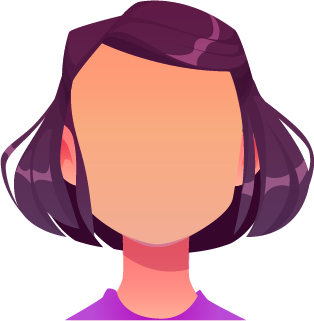
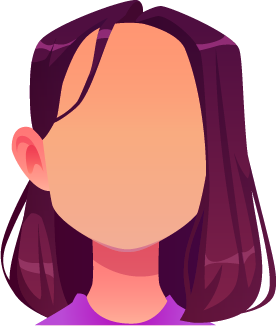
img-loading

diff --git a/src/component/BusinessCard/CustomUpdate.js b/src/component/BusinessCard/CustomUpdate.js
@@ -10,6 +10,8 @@ function CustomUpdate() {
   let history = useNavigate();
   let param = useParams();
 
+  let path = './Business-img/'; // 이미지 경로
+
   //데이터를 모두 읽을 때까지 rendering을 조절하는 변수
   const [loading, setLoading] = useState(false);
 
@@ -21,7 +23,8 @@ function CustomUpdate() {
   const[email, setEmail] = useState('');
   const[url, setUrl] = useState('');
   
-  
+  const[hair, setHair] = useState([]);
+
   //시퀀스,id로 불러올 수 있는 함수 넣기
   function busiDetail(id) {
     axios.get("http://localhost:3000/businessDetail", {params:{"id": id}})
@@ -43,6 +46,18 @@ function CustomUpdate() {
   }
 
 
+  function Hair() {
+    axios.get("http://localhost:3000/hair", {params:{}})
+      .then(function(resp){    
+        console.log(resp.data.list);
+        setHair(resp.data.list);
+      })
+      .catch(function(err){
+        alert("정보를 불러오지 못했습니다.");
+      })
+  }
+
+
 
   const handleSubmit = async(e) => {
     axios.post("http://localhost:3000/businessUpdate", null,
@@ -61,10 +76,18 @@ function CustomUpdate() {
             alert(err);
          })
   }
+
+
+
+
+  function changeHair(e) {
+    setThumbnail(e);
+  }
   
 
   useEffect(function(){
     busiDetail(param.id);
+    Hair();
   },[param.id]);
 
 
@@ -76,15 +99,29 @@ function CustomUpdate() {
 
   return(
     <div className="middle">
-      <div style={{position: "relative", backgroundColor:"#9CA8F0", marginTop:"150px", height:"600px", width:"900px"}} /*명함틀*/ />
 
-      <div style={{position: "relative", marginLeft:"-780px", marginTop:"0px", fontSize:"20px"}}>    
-        <div className="circle" style={{position: "relative", left:"-70px", height:"300px", width:"300px"}}/>
-        <img src={thumbnail} defaultValue={thumbnail} alt="" style={{position: "relative", left:"-765px", marginTop:"-500px", width:"220px", marginBottom:"60px"}}
-              onChange={(e)=>setThumbnail(e.target.value)}/>
+      <div style={{backgroundColor:"#9CA8F0", marginTop:"150px", height:"600px", width:"900px", fontSize:"20px"}}>
 
-        <div style={{ float:"left", marginLeft:"300px", marginTop:"-300px"}}>
-          <div style={{backgroundColor:"white", textAlign:"center", padding:"10px"}}>
+        <div className="circle" style={{ position:"relative", left:"30px", marginTop:"50px", height:"300px", width:"300px"}}/>
+        <img src={`/Business-img/${thumbnail}`} defaultValue={thumbnail} alt="" style={{position:"relative", left:"70px", marginTop:"-800px", width:"220px", marginBottom:"60px"}}
+              onChange={(e)=>setThumbnail(e.target.src)}/>
+
+        <div style={{marginLeft:"50px"}}>
+          {
+            hair.map(function(h, idx){
+            // console.log(path + h.thumbnail);
+              let altStr = "머리" + (idx+1);
+              return(
+                <span key={idx}>
+                  <img src={`${h.thumbnail}`} alt={altStr} style={{width:"50px", padding:"10px"}} onClick={(e)=>setThumbnail(`${h.thumbnail}`)}/>
+                </span>
+              );
+            })
+          }
+        </div>
+
+        <div style={{ marginLeft:"400px", marginTop:"-350px"}}>
+          <div style={{backgroundColor:"white", textAlign:"center", padding:"5px", width:"450px"}}>
             <h3>소개글</h3>
             <input defaultValue={introduce} onChange={(e)=>setIntroduce(e.target.value)}/>
           </div>
@@ -108,7 +145,7 @@ function CustomUpdate() {
           </div>
         </div>
 
-        <div style={{marginLeft:"220px", marginBottom:"-500px", marginTop:"100px"}}>
+        <div className="middle" style={{marginTop:"50px"}}>
           <button onClick={handleSubmit} style={{backgroundColor:"rgb(255, 227, 71)", fontSize:"20px", padding:"10px", width:"200px"}}>
             수정완료
           </button>

diff --git a/src/component/BusinessCard/InformDetail.js b/src/component/BusinessCard/InformDetail.js
@@ -11,10 +11,10 @@ import "./card.css";
 function InformDetail() {
 
   let param = useParams();
-  
+ 
 
   const[businessDetail, setbusinessDetail] = useState(); //객체로 접근하기 때문에 값을 넣지 않아도 됨
-  
+  const[path, setPath] = useState('');
   
   //데이터를 모두 읽을 때까지 rendering을 조절하는 변수
   const [loading, setLoading] = useState(false);
@@ -23,10 +23,11 @@ function InformDetail() {
   function busiDetail() {
     axios.get("http://localhost:3000/businessDetail", {params:{"id": param.id}})
          .then(function(resp){
-            console.log(resp.data.thumbnail);
+            console.log(path + resp.data.thumbnail);
             setbusinessDetail(resp.data);
             setLoading(true);   //렌더링 시작해주기
-
+            setPath('./Business-img/' + resp.data.thumbnail);
+            console.log(path);
          })
          .catch(function(err){
             alert("정보를 불러오지 못했습니다.");
@@ -46,14 +47,14 @@ function InformDetail() {
   
   return(
     <div className="middle">
-      <div style={{position: "relative", backgroundColor:"#9CA8F0", marginTop:"150px", height:"600px", width:"900px"}} /*명함틀*/ />
       
-      <div style={{position: "relative", marginLeft:"-780px", marginTop:"0px", fontSize:"20px"}}>
+      <div style={{backgroundColor:"#9CA8F0", marginTop:"150px", height:"600px", width:"900px", fontSize:"20px"}}>
       
-          <div className="circle" style={{position: "relative", left:"-70px", height:"300px", width:"300px"}}/>
-          <img src={businessDetail.thumbnail} alt="" style={{position: "relative", left:"-765px", marginTop:"-500px", width:"220px", marginBottom:"60px"}}/>
-          <div style={{ float:"left", marginLeft:"300px", marginTop:"-300px"}}>
-            <div value={businessDetail.introduce} style={{backgroundColor:"white", textAlign:"center", padding:"10px"}}>
+          <div className="circle" style={{ position:"relative", left:"30px", marginTop:"50px", height:"300px", width:"300px"}}/>
+          <img src={`/Business-img/${businessDetail.thumbnail}`} alt="" style={{position:"relative", left:"70px", marginTop:"-800px", width:"220px", marginBottom:"65px"}}/>
+
+          <div style={{ marginLeft:"400px", marginTop:"-300px"}}>
+            <div style={{backgroundColor:"white", textAlign:"center", padding:"5px", width:"450px"}}>
               <h3>소개글</h3>
               <div>{businessDetail.introduce}</div>
             </div>
@@ -77,7 +78,7 @@ function InformDetail() {
             </div>
           </div>
         
-          <div style={{marginLeft:"150px", marginBottom:"-500px", marginTop:"100px"}}>
+          <div className="middle" style={{marginTop:"100px"}}>
             {/* <Link to={`/customUpdate/${businessDetail.id}/${businessDetail.thumbnail}/${businessDetail.introduce}/${businessDetail.name}/${businessDetail.phoneNum}/${businessDetail.email}/${businessDetail.url}`}> */}
             <Link to={`/customUpdate/${businessDetail.id}`}>
               <button style={{backgroundColor:"rgb(255, 227, 71)", fontSize:"20px", padding:"10px", width:"200px"}}>

diff --git a/src/component/BusinessCard/Card.js b/src/component/BusinessCard/Card.js
@@ -10,8 +10,6 @@ function Card() {
   
   return(
     <div className="middle">
-      {/* <div style={{position: "relative", backgroundColor:"#9CA8F0", height:"600px", width:"900px", marginTop:"100px"}} // 명함틀
-      /> */}
       <div>
         <Inform/>
       </div>

diff --git a/src/component/BusinessCard/Inform.js b/src/component/BusinessCard/Inform.js
@@ -77,7 +77,7 @@ function Inform() {
             )
           })
       }
-    </div>
+      </div>
   )
 }
 export default Inform;
